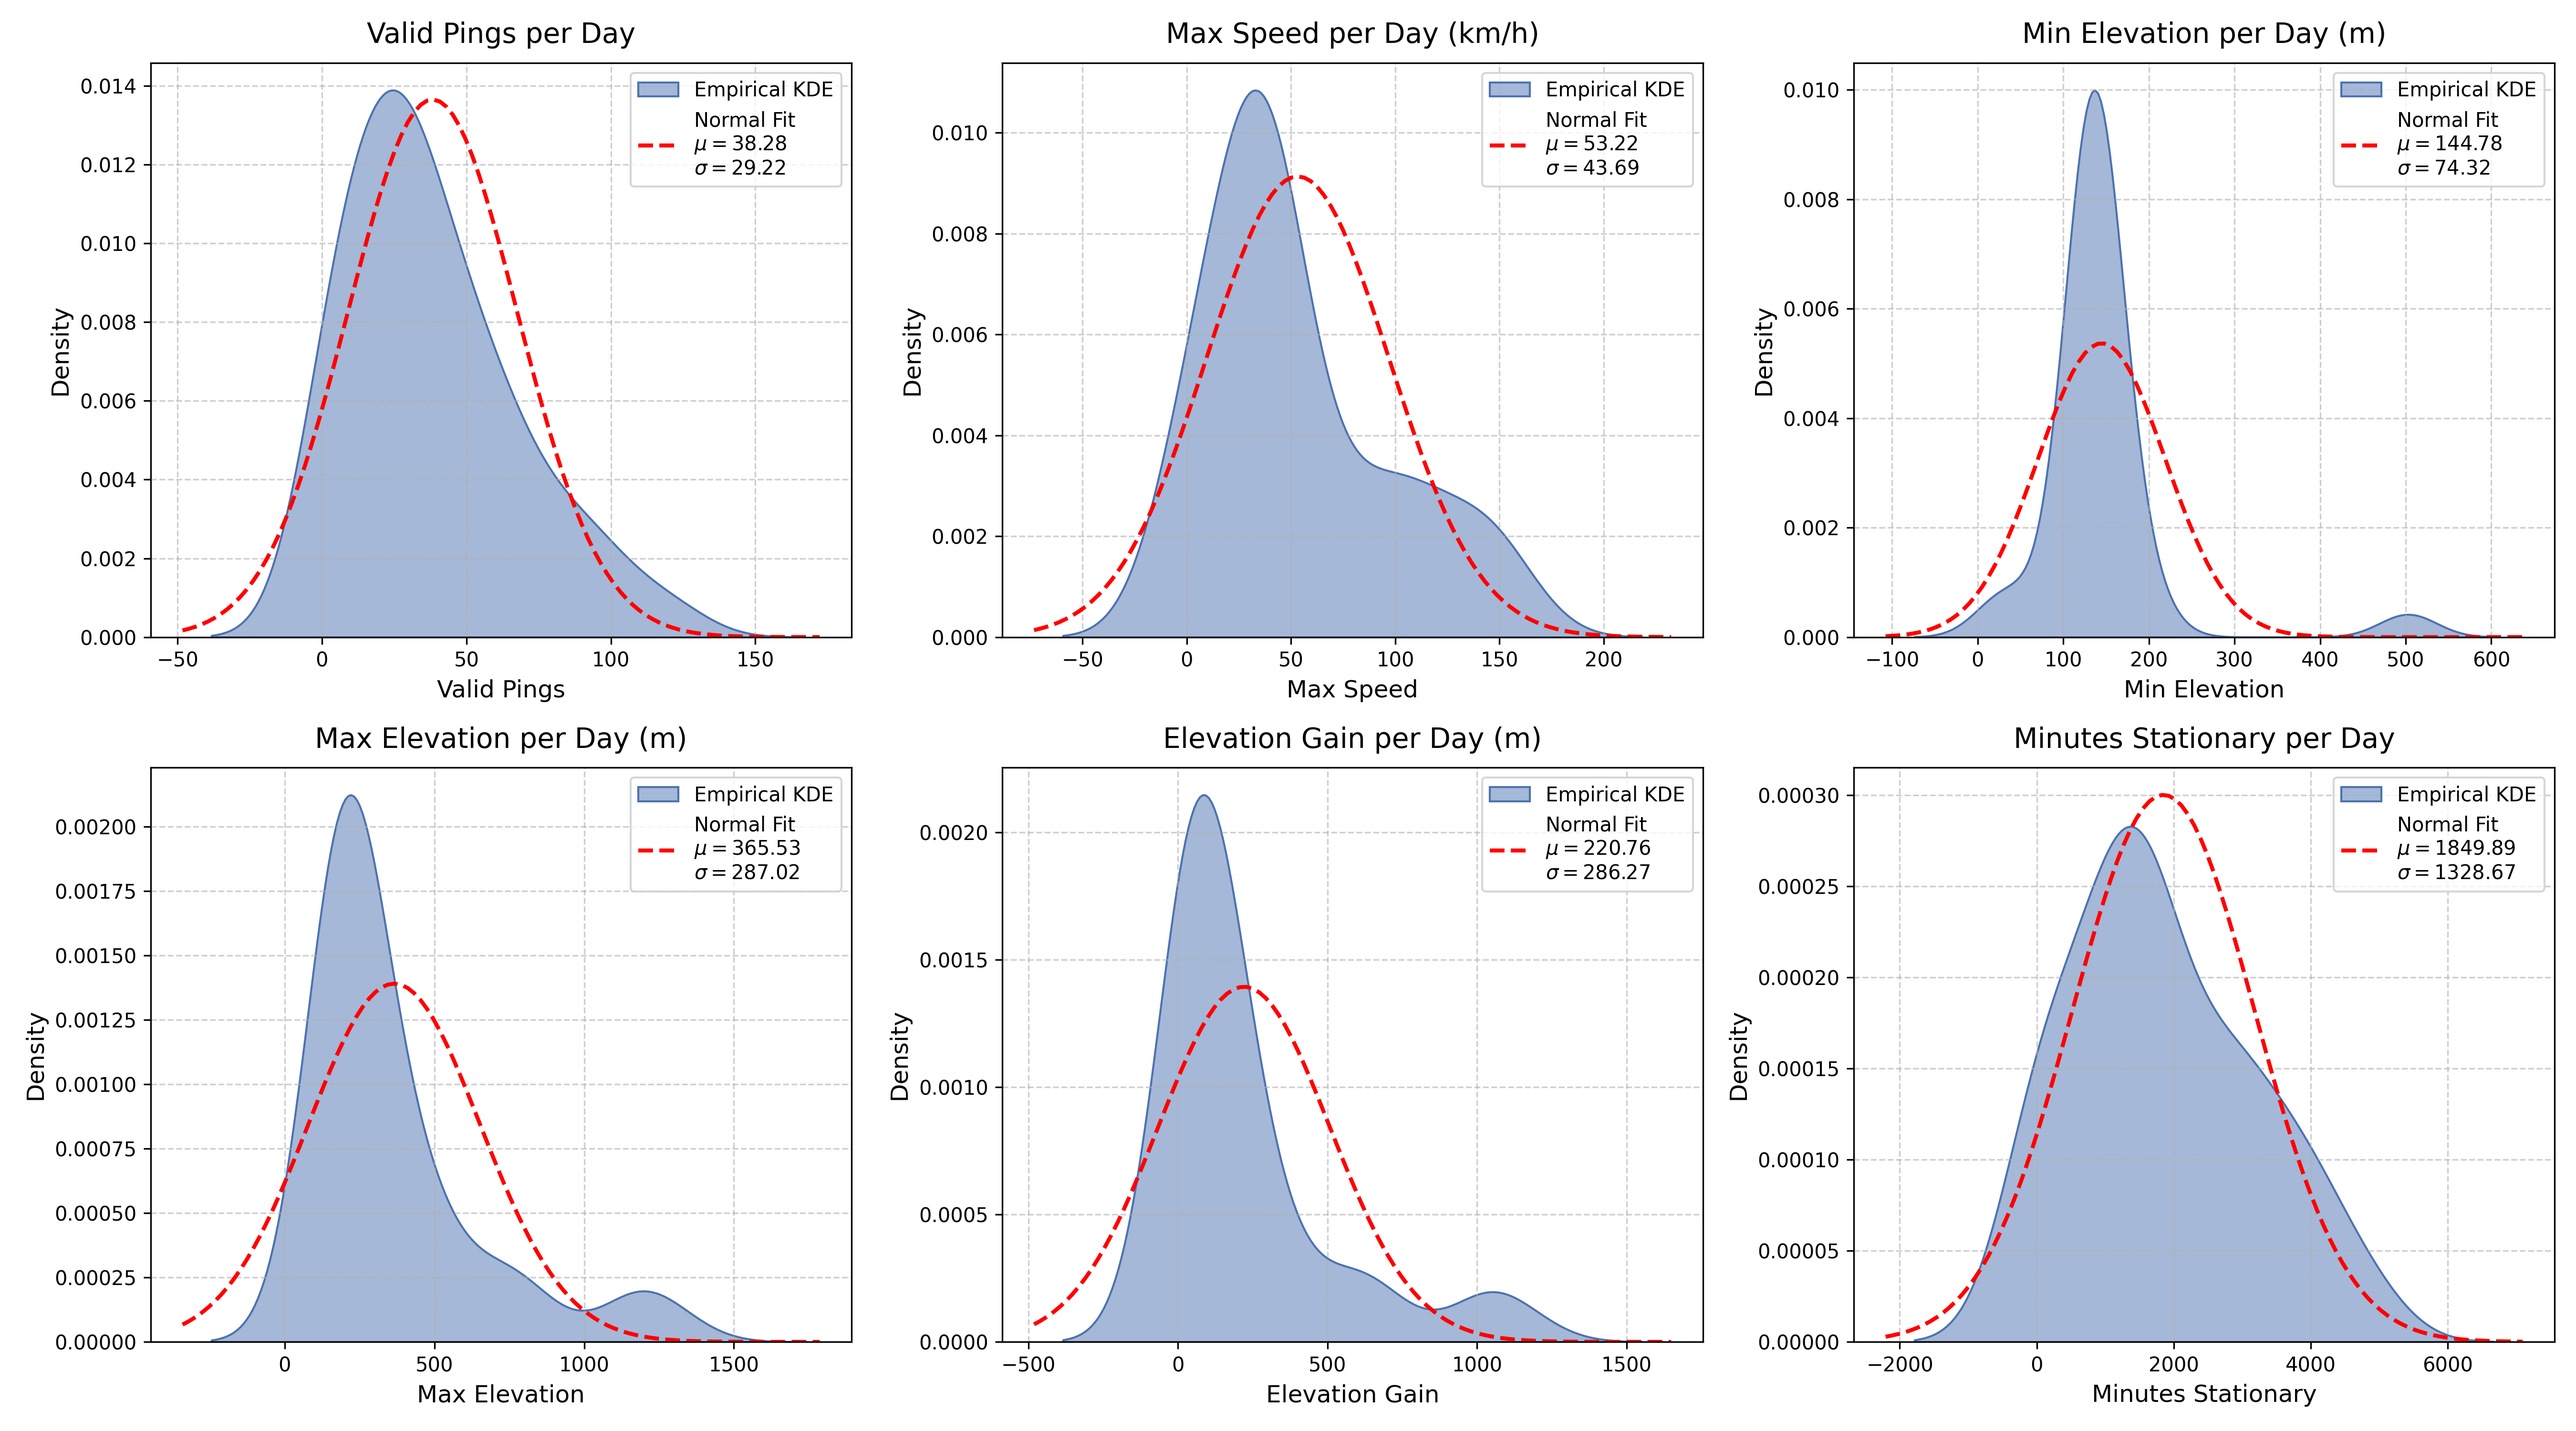
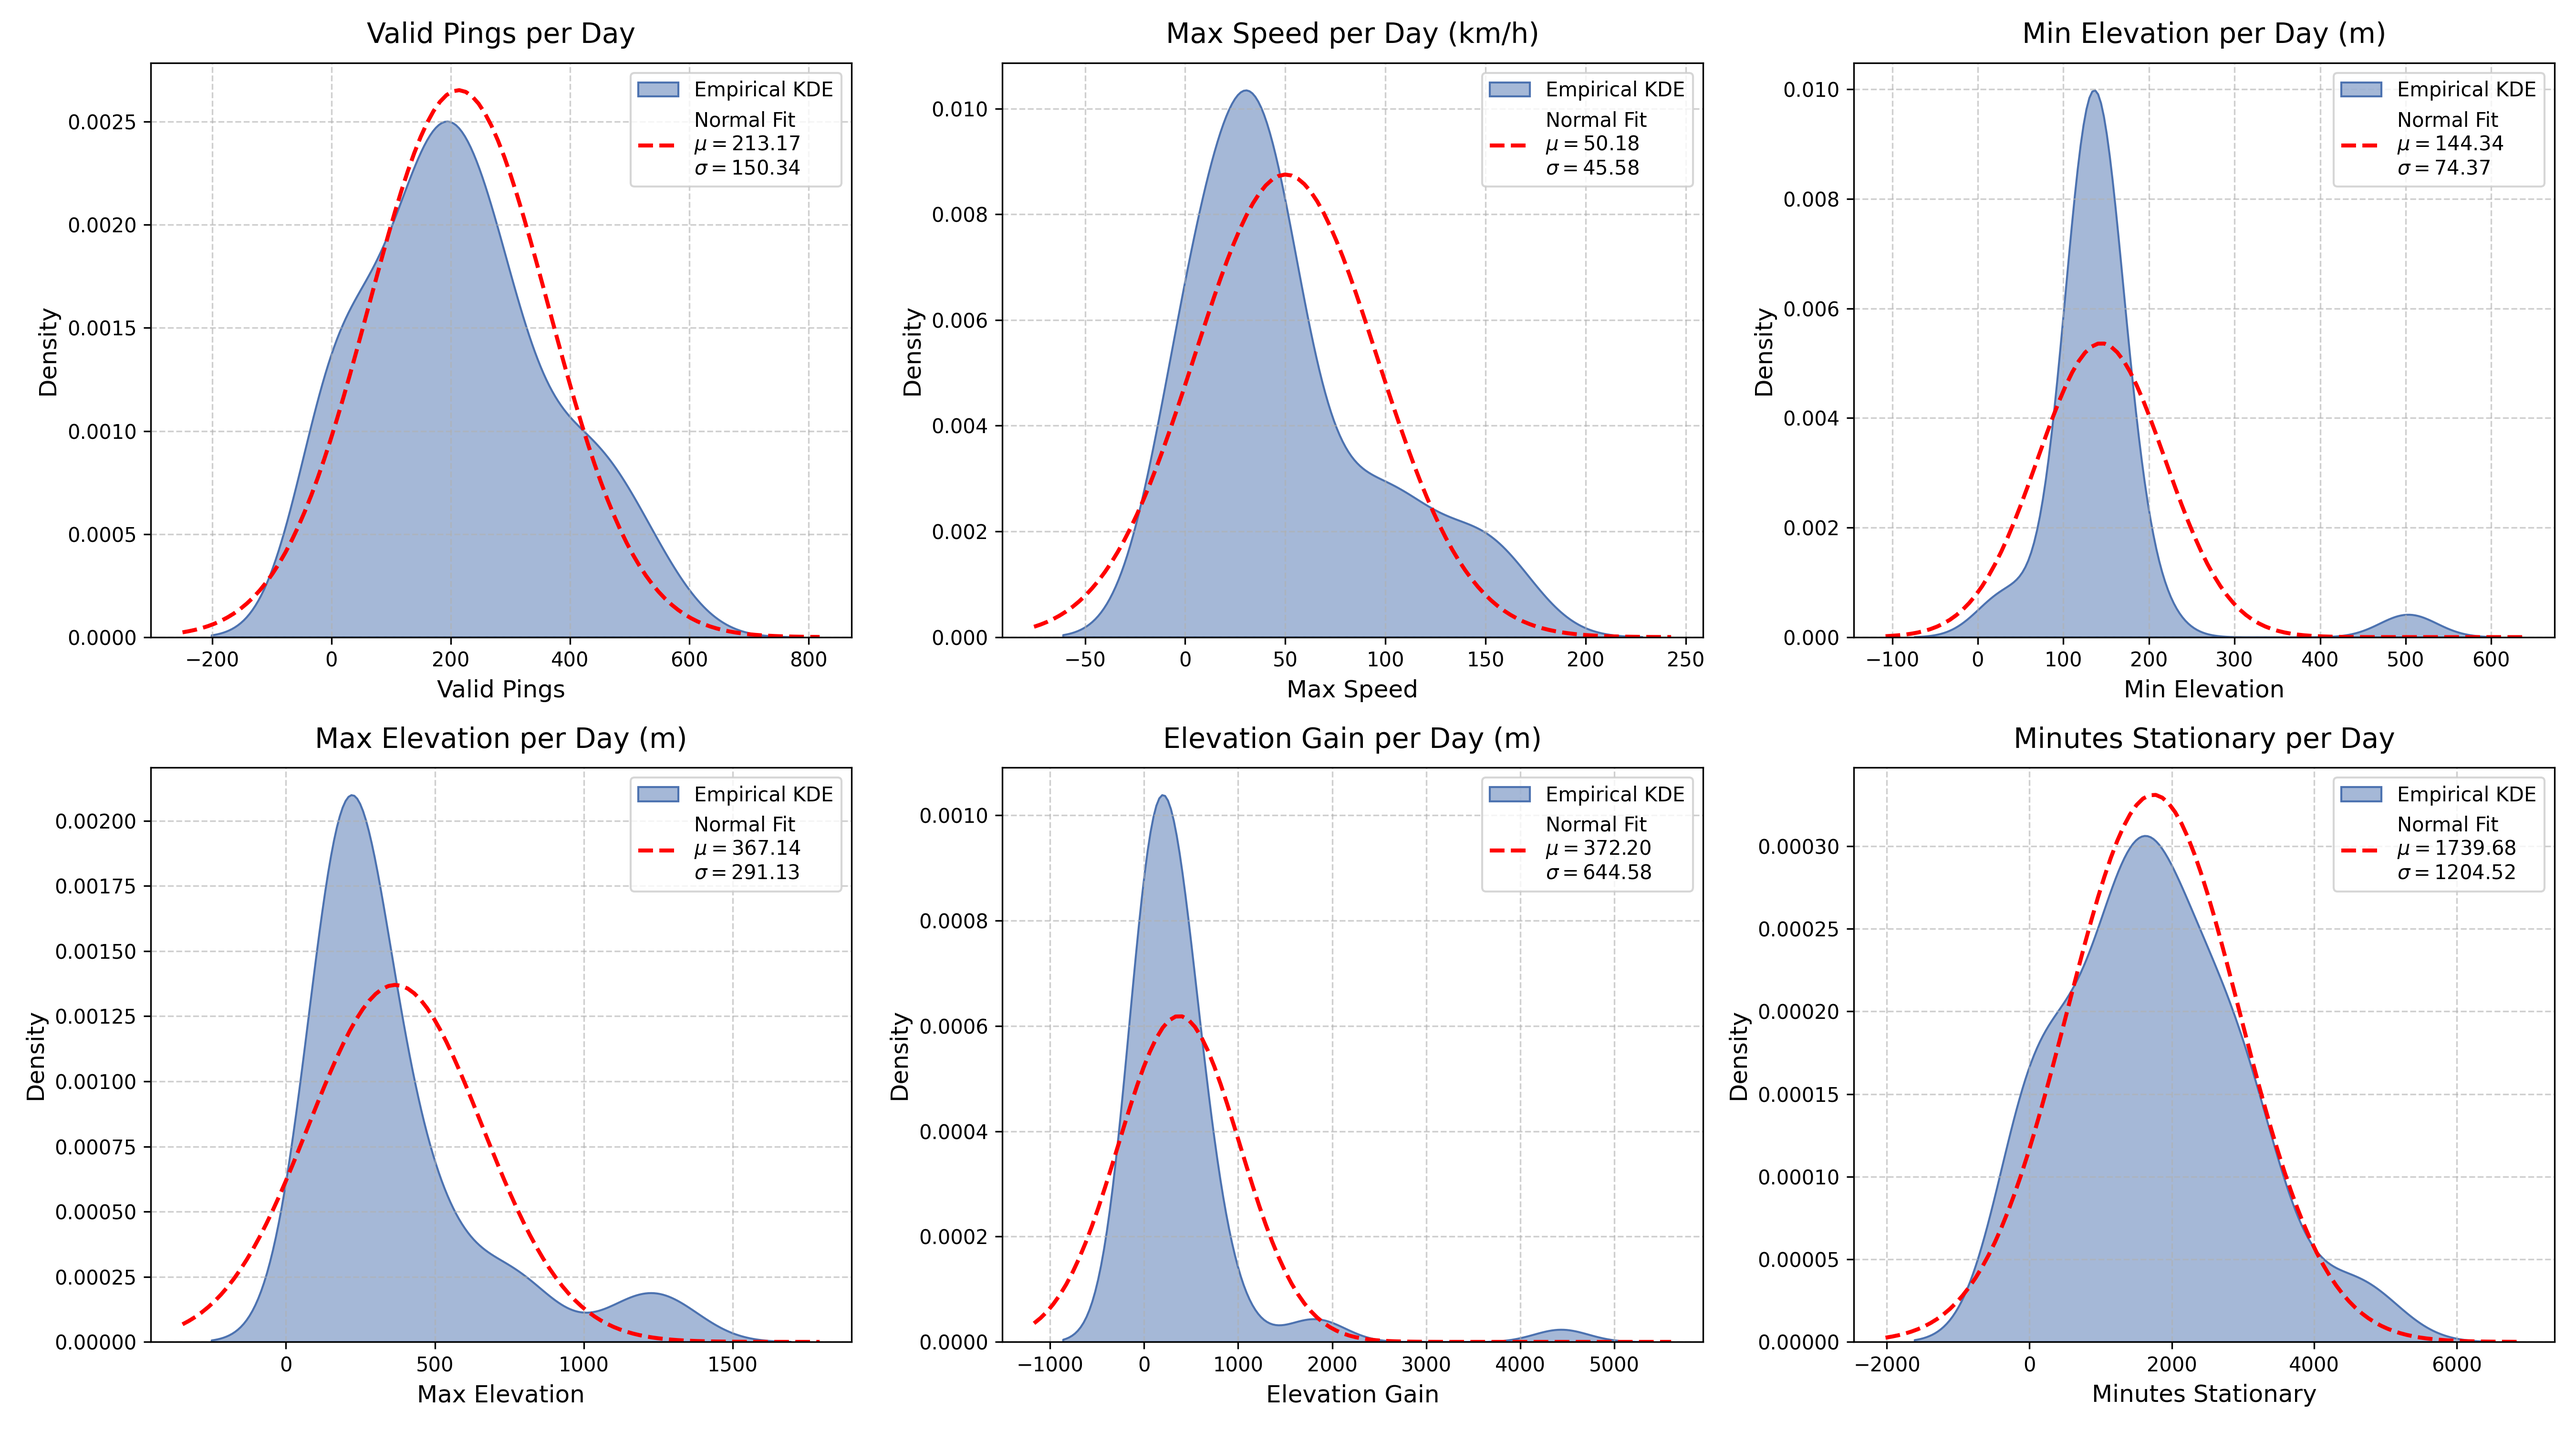
Fixed distributions code

diff --git a/analysis/daily_analysis.py b/analysis/daily_analysis.py
@@ -22,9 +22,9 @@ CREATE TABLE IF NOT EXISTS daily_stats (
     pings INTEGER,
     valid INTEGER,
     rejected INTEGER,
-    max_speed TEXT,
-    min_elevation TEXT,
-    max_elevation TEXT,
+    max_speed REAL,
+    min_elevation INTEGER,
+    max_elevation INTEGER,
     elevation_gain REAL,
     minutes_stationary INTEGER
 )
@@ -151,8 +151,8 @@ def get_daily_stats(hashed_key, date):
 
     conn.close()
 
-    if min_elevation == float('inf'): min_elevation = "-"
-    if max_elevation == float('-inf'): max_elevation = "-"
+    if min_elevation == float('inf'): min_elevation = None
+    if max_elevation == float('-inf'): max_elevation = None
 
     elevation_gain = 0
     for i in range(1, len(elevations)):
@@ -164,9 +164,9 @@ def get_daily_stats(hashed_key, date):
         "pings": total_pings,
         "valid": valid_pings,
         "rejected": rejected_pings,
-        "max_speed": f"{round(max_speed, 1)} km/h",
-        "min_elevation": f"{min_elevation} m",
-        "max_elevation": f"{max_elevation} m",
+        "max_speed": round(max_speed, 1),
+        "min_elevation": min_elevation,
+        "max_elevation": max_elevation,
         "elevation_gain": round(elevation_gain),
         "minutes_stationary": int(total_stationary_minutes)
     }

diff --git a/analysis/analyze_distributions.py b/analysis/analyze_distributions.py
@@ -38,15 +38,16 @@ def main():
     # 1. SQL Query to aggregate daily metrics
     query = """
         SELECT 
-            DATE(time) AS date,
-            COUNT(*) AS valid_pings,
-            MAX(velocity) AS max_speed,
-            MIN(elevation) AS min_elevation,
-            MAX(elevation) AS max_elevation,
-            (MAX(elevation) - MIN(elevation)) AS elevation_gain,
-            SUM(CASE WHEN motion_state = 'STATIONARY' THEN time_spent ELSE 0 END) AS minutes_stationary
-        FROM trips
-        GROUP BY DATE(time)
+            date,
+            SUM(valid) AS valid_pings,
+            MAX(max_speed) AS max_speed,
+            MIN(min_elevation) AS min_elevation,
+            MAX(max_elevation) AS max_elevation,
+            SUM(elevation_gain) AS elevation_gain,
+            SUM(minutes_stationary) AS minutes_stationary
+        FROM daily_stats
+        WHERE valid IS NOT NULL
+        GROUP BY date
     """
     
     # Load to DataFrame

diff --git a/flask/main.py b/flask/main.py
@@ -223,9 +223,9 @@ def get_daily_stats(hashed_key, date):
             "pings": row["pings"],
             "valid": row["valid"],
             "rejected": row["rejected"],
-            "max_speed": row["max_speed"],
-            "min_elevation": row["min_elevation"],
-            "max_elevation": row["max_elevation"],
+            "max_speed": f"{row['max_speed']} km/h" if row['max_speed'] is not None else "0 km/h",
+            "min_elevation": f"{row['min_elevation']} m" if row['min_elevation'] is not None else "-",
+            "max_elevation": f"{row['max_elevation']} m" if row['max_elevation'] is not None else "-",
             "elevation_gain": row["elevation_gain"],
             "hours_stationary": row["minutes_stationary"] // 60,
             "minutes_stationary": row["minutes_stationary"] % 60
